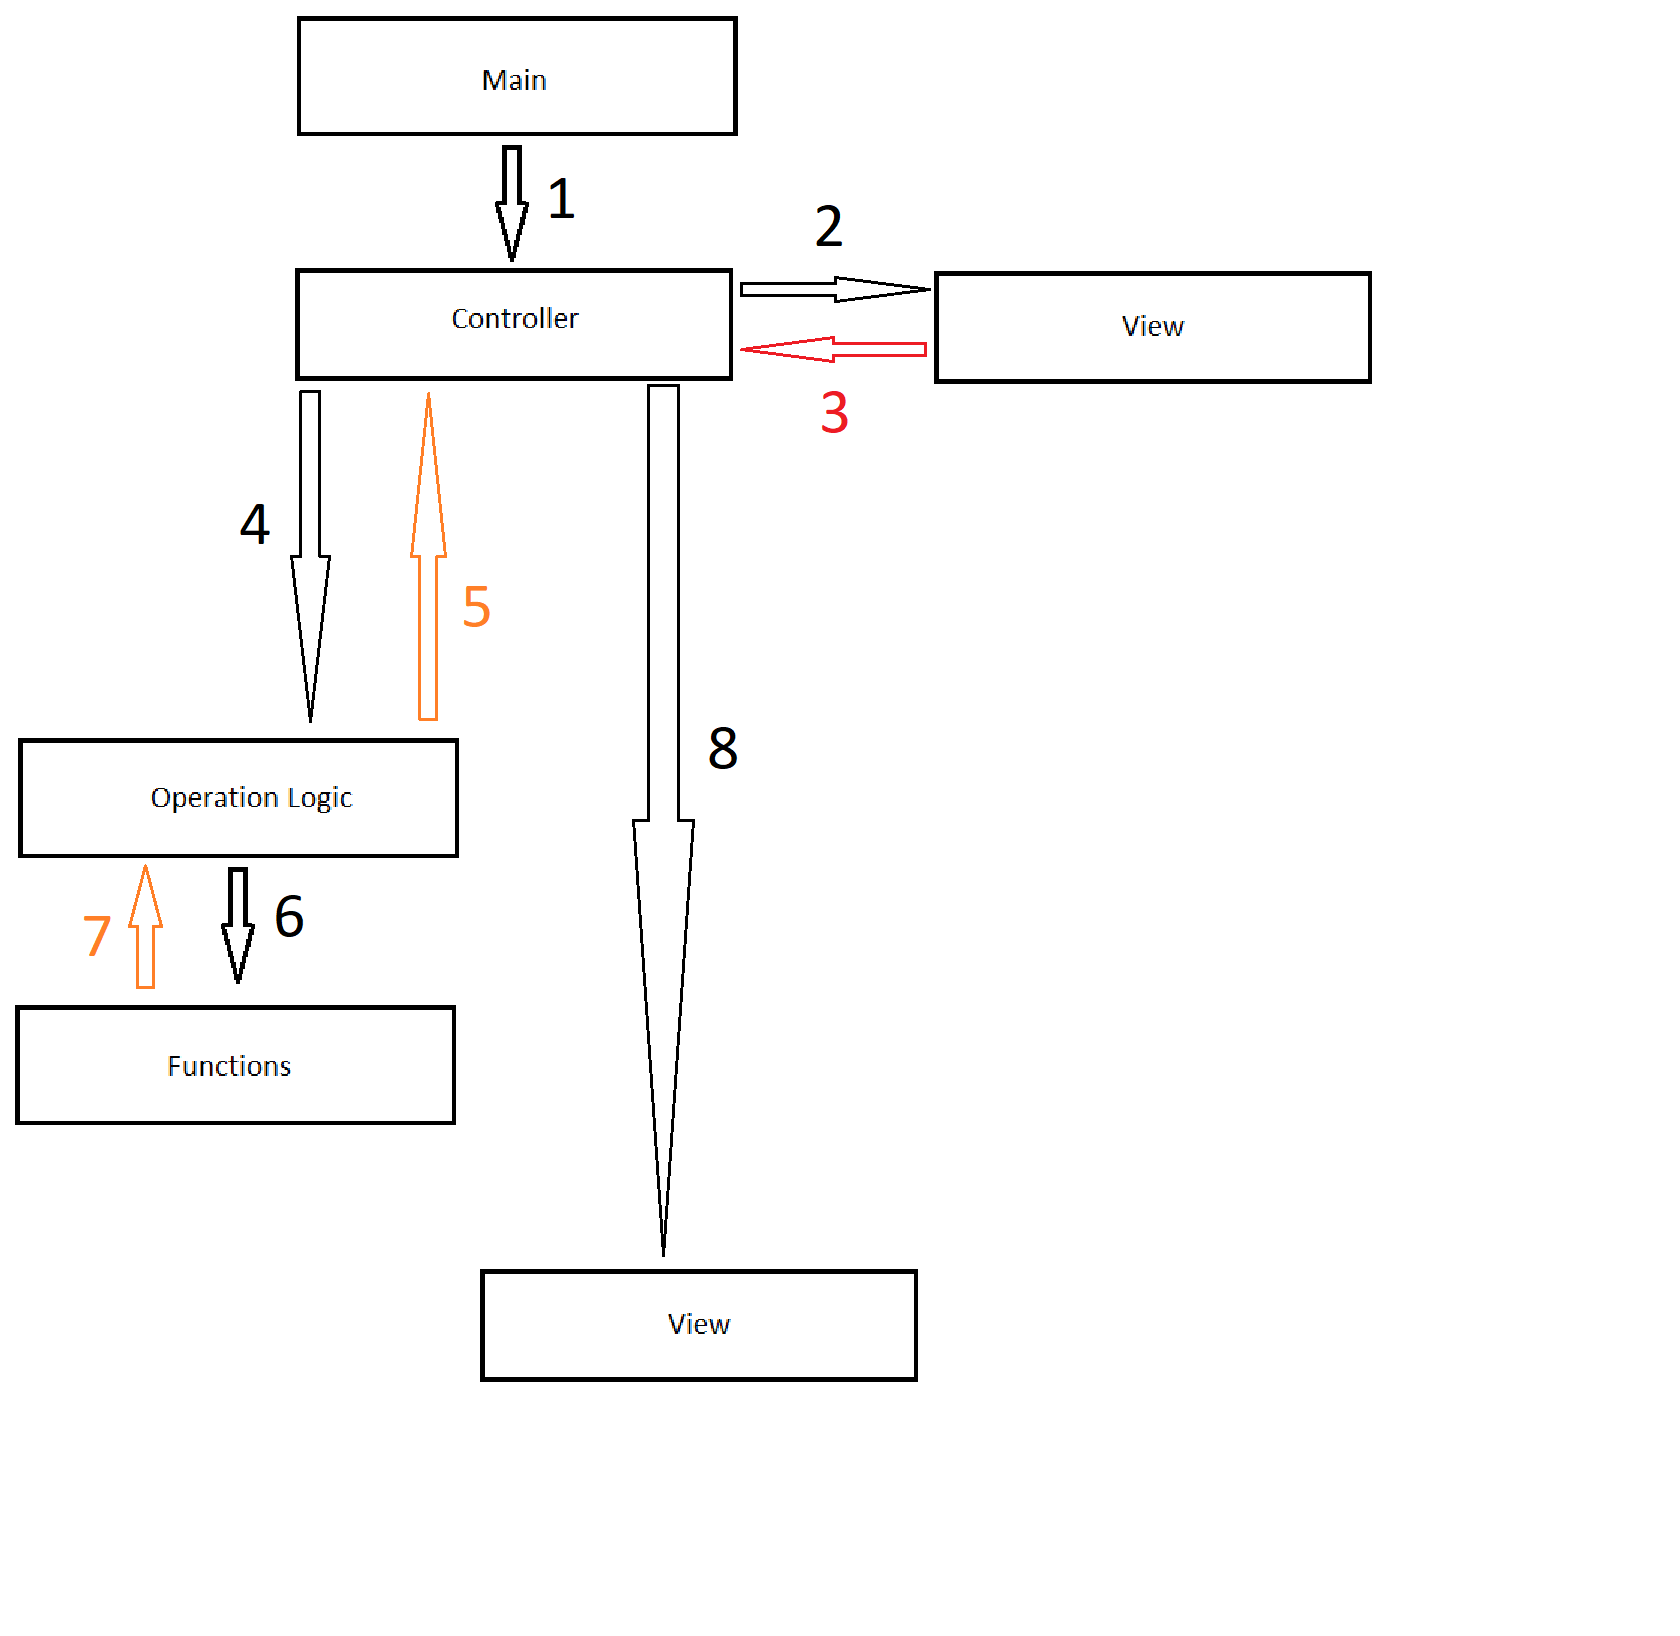
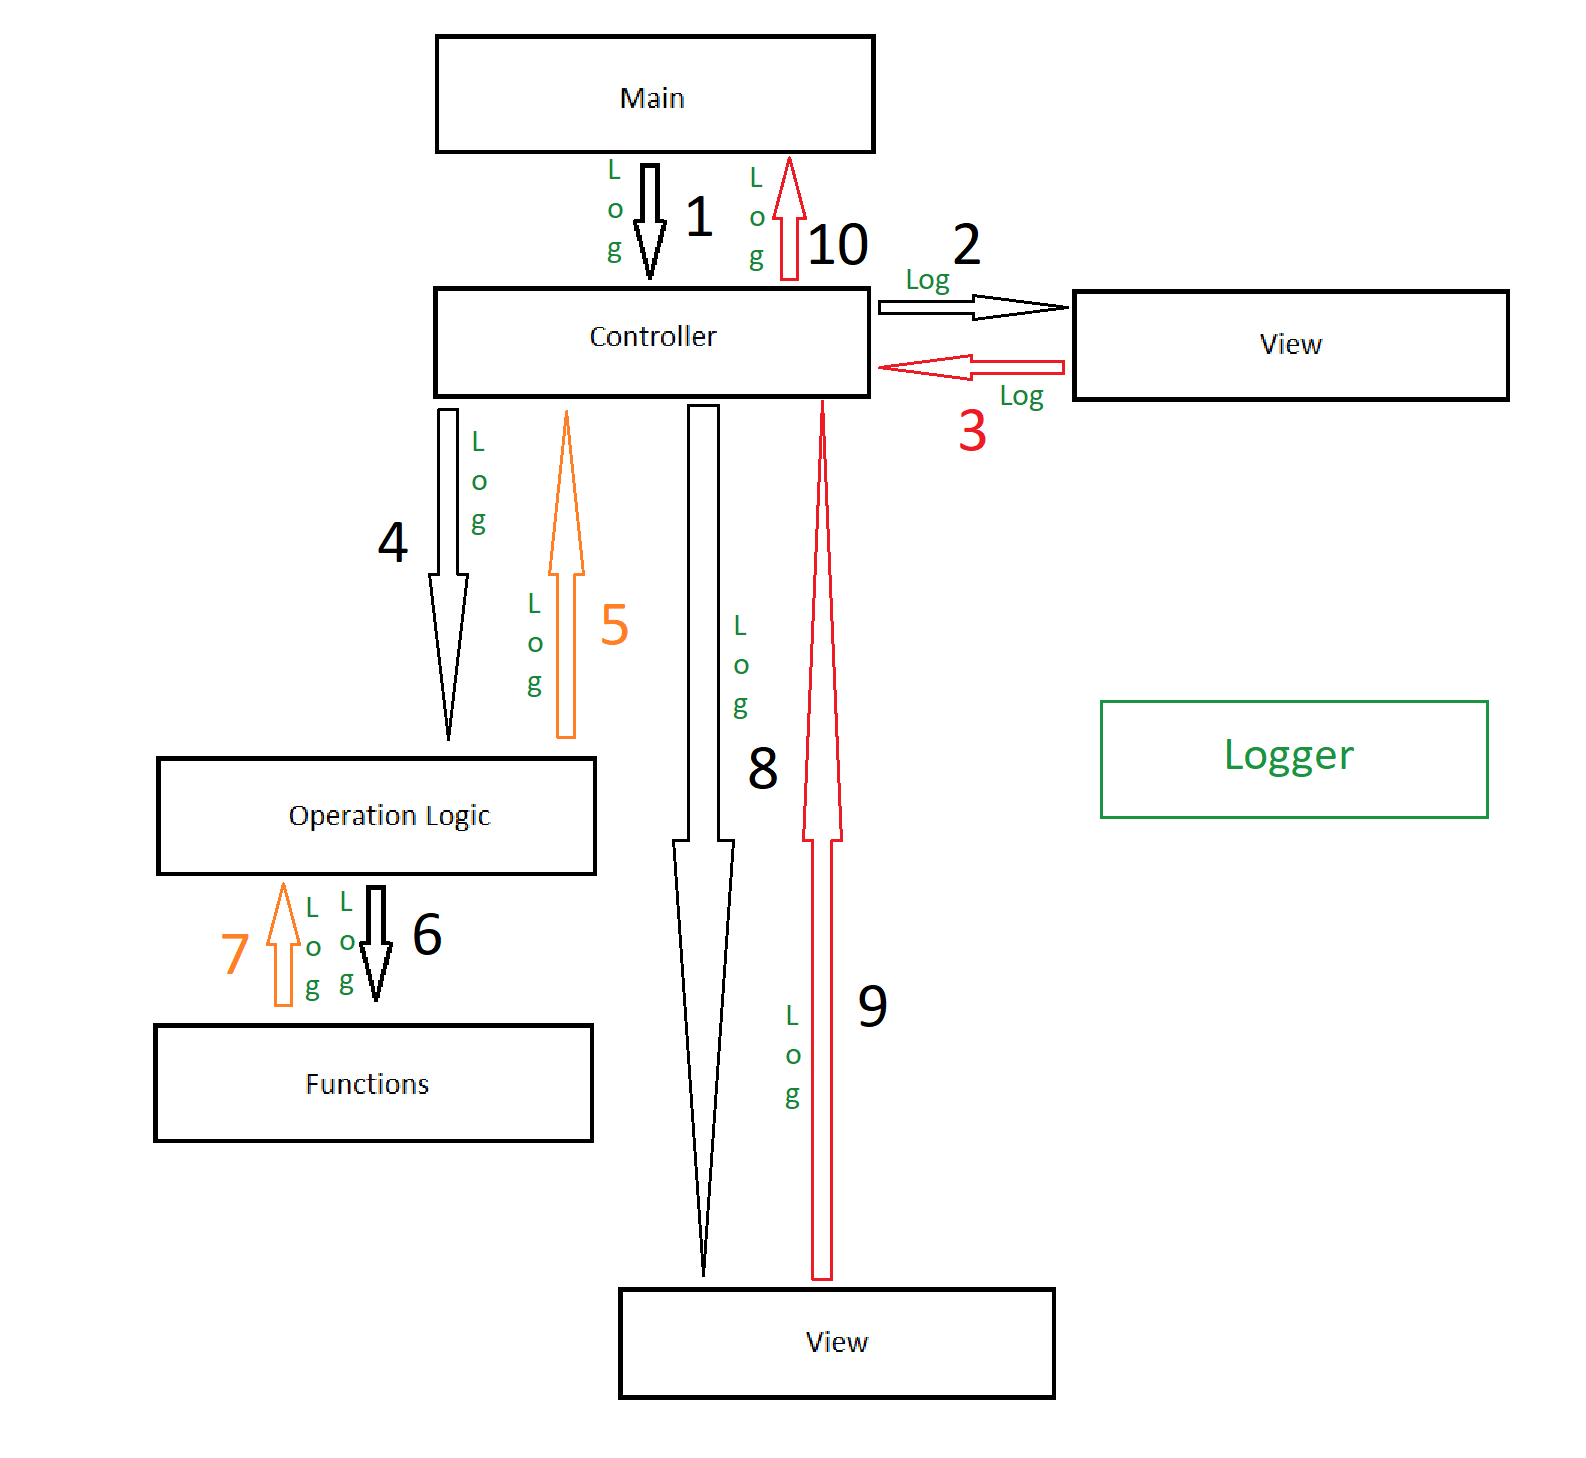
added logger

diff --git a/Lesson_007/calc/controller.py b/Lesson_007/calc/controller.py
@@ -1,5 +1,6 @@
 import view
 import operation_logic
+import logger
 
 
 a = 0
@@ -7,7 +8,8 @@ func = ''
 b = 0
 
 
-def ClickButtom_v1():
+def ClickButtom_v1(): # одно вычисление -> число, операция, число
+    logger.Log('main', 'controller.ClickButtom_v1', '__Start__')
     global a
     global func
     global b
@@ -16,18 +18,22 @@ def ClickButtom_v1():
     b = view.GetUserValue_v1()
     result = operation_logic.FunctionLogic(func, a, b)
     view.ViewData(result)
+    logger.Log('controller.ClickButtom_v1', 'main', '__End__')
 
 
-def ClickButtom_v2():
+def ClickButtom_v2(): # повторяющиеся одинарные вычисления -> результат, операция, число
+    logger.Log('main', 'controller.ClickButtom_v2', '__Start__')
     global a
     global func
     global b
     a = view.GetUserValue_v1()
     func = view.GetUserFunction()
+
     while func.lower() != 'c':
         b = view.GetUserValue_v1()
-        result = operation_logic.FunctionLogic(func, a, b)
+        result = operation_logic.FunctionLogic(a, func, b)
         view.ViewData(result)
         a = result
         func = view.GetUserFunction()
+    logger.Log('controller.ClickButtom_v2', 'main', '__End__')
 

diff --git a/Lesson_007/calc/operation_logic.py b/Lesson_007/calc/operation_logic.py
@@ -1,13 +1,23 @@
 import functions
+import logger
 
 
-def FunctionLogic(operation, x, y):
+def FunctionLogic(x, operation, y):
+    logger.Log('controller.ClickButtom_v2', 'operation_logic.FunctionLogic', [x, operation, y])
     if operation == '+':
-        return functions.PlusFunction(x, y)
+        result = functions.PlusFunction(x, y)
+        logger.Log('operation_logic.FunctionLogic', 'controller.ClickButtom_v2', result)
+        return result
     elif operation == '-':
-        return functions.MinusFunction(x, y)
+        result = functions.MinusFunction(x, y)
+        logger.Log('operation_logic.FunctionLogic', 'controller.ClickButtom_v2', result)
+        return result
     elif operation == '*':
-        return functions.MultiplicationFunction(x, y)
+        result = functions.MultiplicationFunction(x, y)
+        logger.Log('operation_logic.FunctionLogic', 'controller.ClickButtom_v2', result)
+        return result
     elif operation == '/':
-        return functions.DivisionFunction(x, y)
+        result = functions.DivisionFunction(x, y)
+        logger.Log('operation_logic.FunctionLogic', 'controller.ClickButtom_v2', result)
+        return result
 

diff --git a/Lesson_007/calc/functions.py b/Lesson_007/calc/functions.py
@@ -1,15 +1,26 @@
+import logger
+
+
 def PlusFunction(x, y):
+    logger.Log('operation_logic.FunctionLogic', 'functions.PlusFunction', (x, y))
+    logger.Log('functions.PlusFunction', 'operation_logic.FunctionLogic', x + y)
     return x + y
 
 
 def MinusFunction(x, y):
+    logger.Log('operation_logic.FunctionLogic', 'functions.MinusFunction', (x, y))
+    logger.Log('functions.MinusFunction', 'operation_logic.FunctionLogic', x - y)
     return x - y
 
 
 def MultiplicationFunction(x, y):
+    logger.Log('operation_logic.FunctionLogic', 'functions.MultiplicationFunction', (x, y))
+    logger.Log('functions.MultiplicationFunction', 'operation_logic.FunctionLogic', x * y)
     return x * y
 
 
 def DivisionFunction(x, y):
+    logger.Log('operation_logic.FunctionLogic', 'functions.DivisionFunction', (x, y))
+    logger.Log('functions.DivisionFunction', 'operation_logic.FunctionLogic', x / y)
     return x / y
 

diff --git a/Lesson_007/calc/logger.py b/Lesson_007/calc/logger.py
@@ -1,0 +1,25 @@
+import datetime
+
+
+def Log(initiator, func, arg):
+    with open('Lesson_007\calc\logs.json', 'a') as log_file:
+        time = datetime.datetime.now().strftime('%D %H:%M:%S')
+
+        if arg == '__Start__':
+            log_file.write('{')
+            log_file.write('\n  "Table": [\n    {')
+            log_file.write(f'\n      "TimeStart": "{time}"')
+            arg = 'null'
+
+        log_file.write(',\n      "Event":\n        {')
+        log_file.write(f'\n          "Time": "{time}",')
+        log_file.write(f'\n          "EventInitiator": "{initiator}",')
+        log_file.write(f'\n          "ToFunction": "{func}",')
+        log_file.write(f'\n          "Arguments": "{arg}"')
+        log_file.write('\n        }')
+
+        if arg == '__End__':
+            log_file.write('\n    }')
+            log_file.write('\n  ]')
+            log_file.write('\n}')
+            arg = 'null'

diff --git a/Lesson_007/calc/view.py b/Lesson_007/calc/view.py
@@ -1,11 +1,21 @@
+import logger
+
 def ViewData(data):
+    logger.Log('controller.ClickButtom_v2', 'view.ViewData', data)
+    logger.Log('view.ViewData', 'controller.ClickButtom_v2', data)
     print(f'= {data}')
 
 
 def GetUserValue_v1():
-    return float(input('Enter value: '))
+    user_input = float(input('Enter value: '))
+    logger.Log('controller.ClickButtom_v2', 'view.GetUserValue_v1', 'null')
+    logger.Log('view.GetUserValue_v1', 'controller.ClickButtom_v2', user_input)
+    return user_input
 
 
 def GetUserFunction():
-    return input('Enter function ("+", "-", "*", "/", "C"): ')
+    user_input = input('Enter function ("+", "-", "*", "/", "C"): ')
+    logger.Log('controller.ClickButtom_v2', 'view.GetUserFunction', 'null')
+    logger.Log('view.GetUserFunction', 'controller.ClickButtom_v2', user_input.upper())
+    return user_input
 
